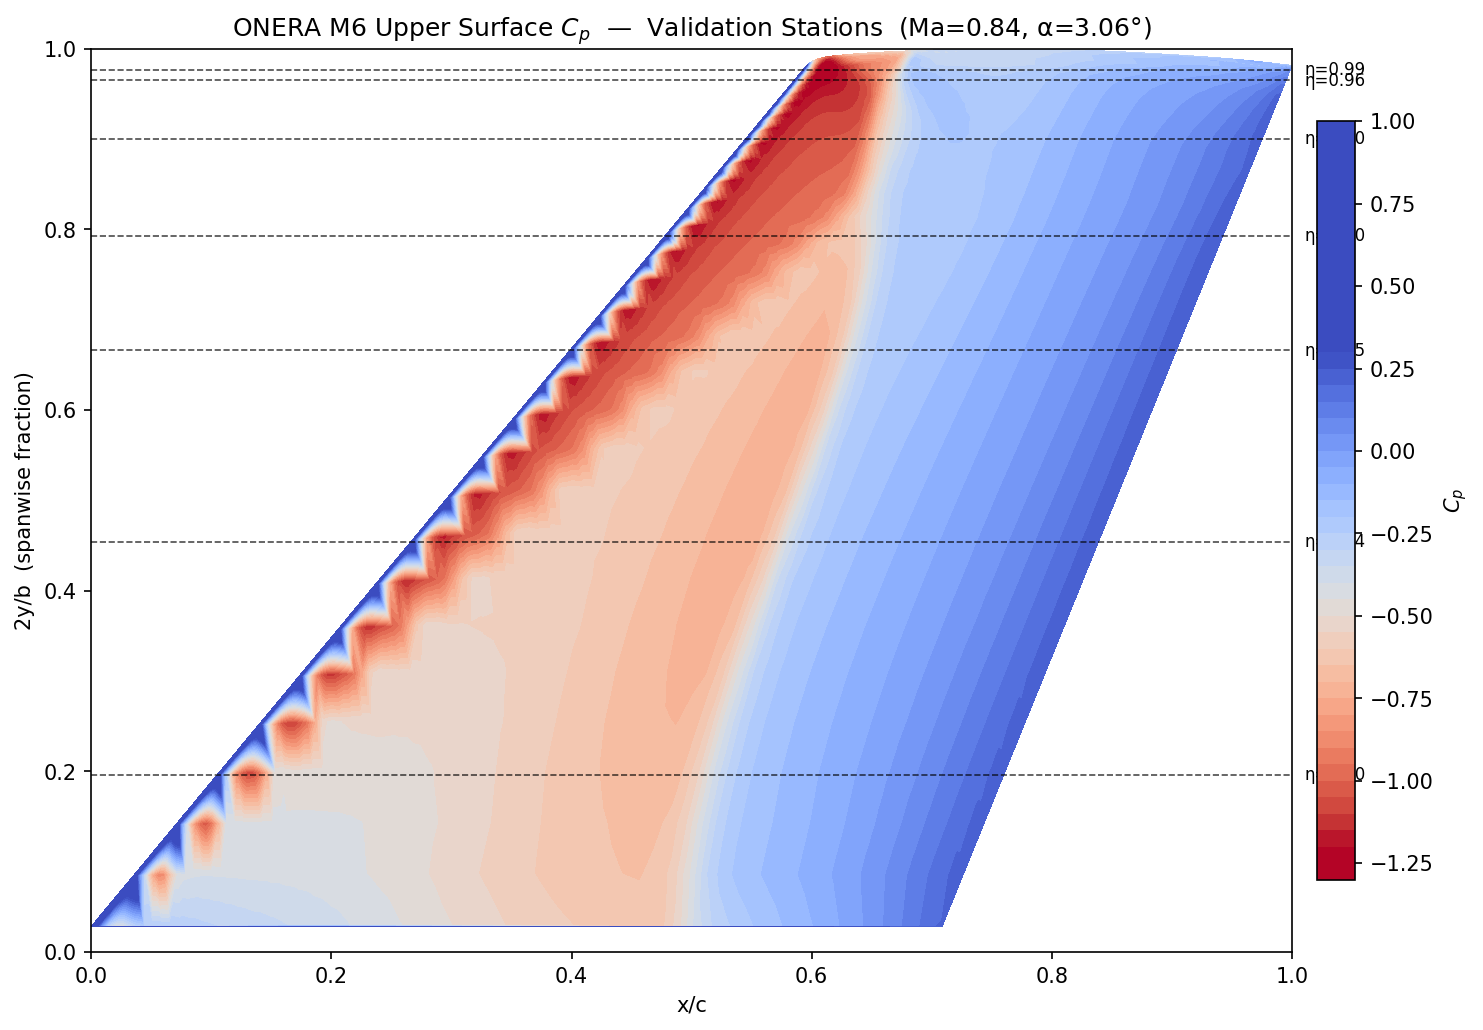
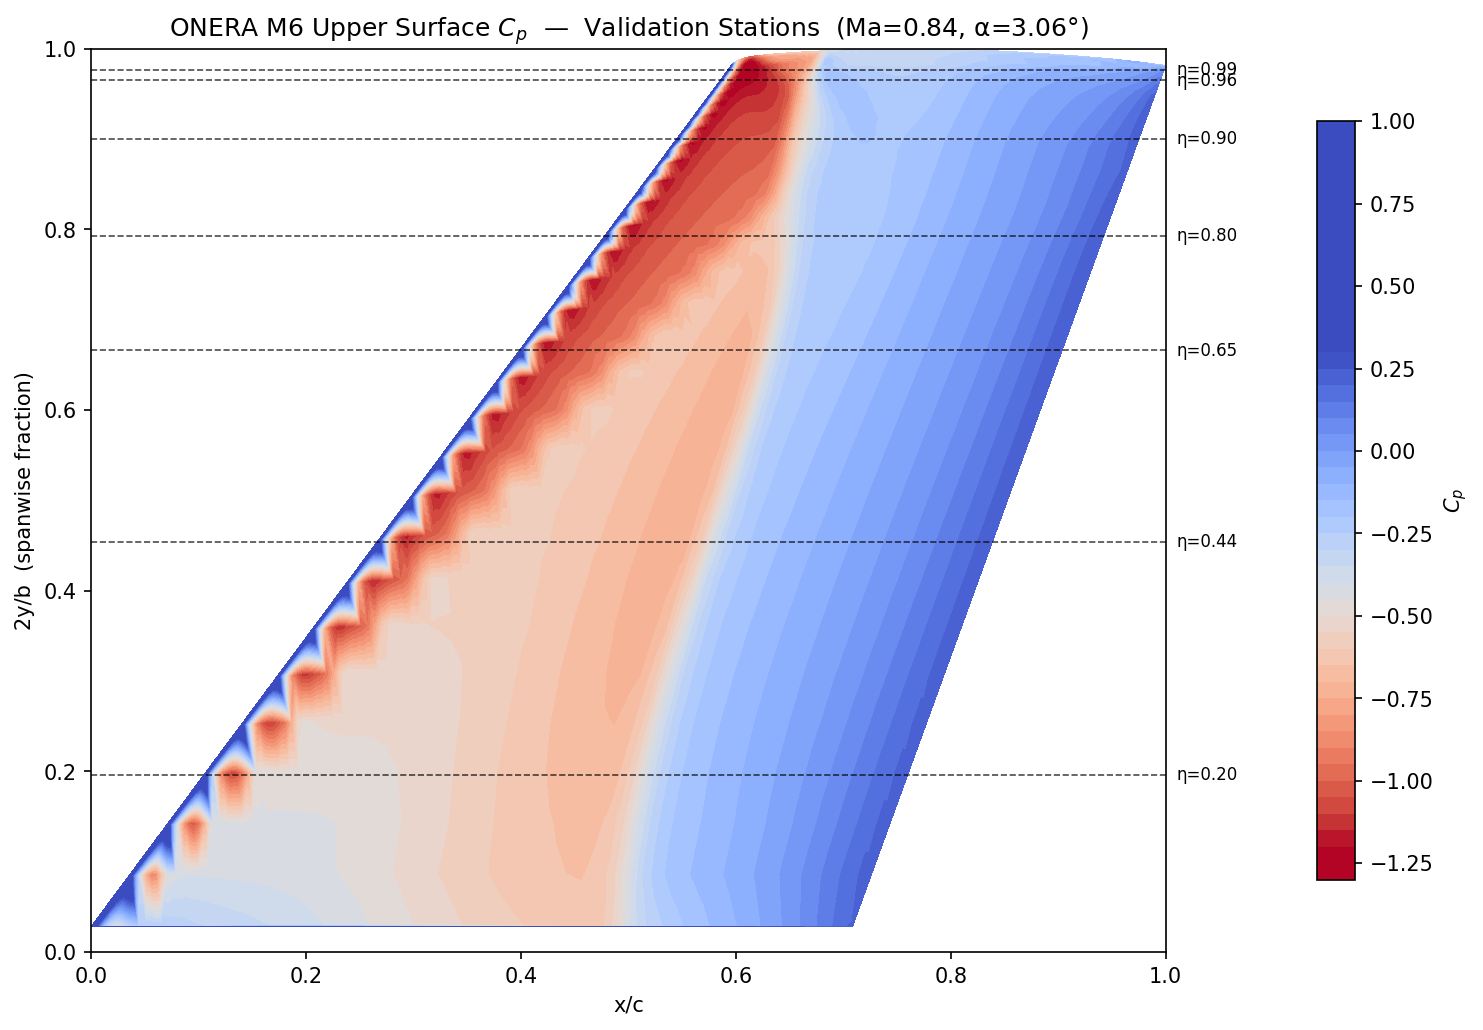
Move colorbar right to avoid overlap with eta station labels

diff --git a/plot_wing_topdown.py b/plot_wing_topdown.py
@@ -63,7 +63,7 @@ fig2, ax2 = plt.subplots(figsize=(10, 7))
 tc2 = ax2.tricontourf(x_norm[upper], eta[upper], Cp[upper],
                       levels=50, cmap="coolwarm_r", vmin=-1.2, vmax=0.3)
 cb2 = fig2.colorbar(tc2, ax=ax2, label="$C_p$", orientation="vertical",
-                    fraction=0.03, pad=0.02, extend="neither")
+                    fraction=0.03, pad=0.12, extend="neither")
 
 for eta_m, eta_e in zip(station_eta_mesh, station_eta_exp):
     ax2.axhline(eta_m, color="k", lw=0.8, ls="--", alpha=0.7)